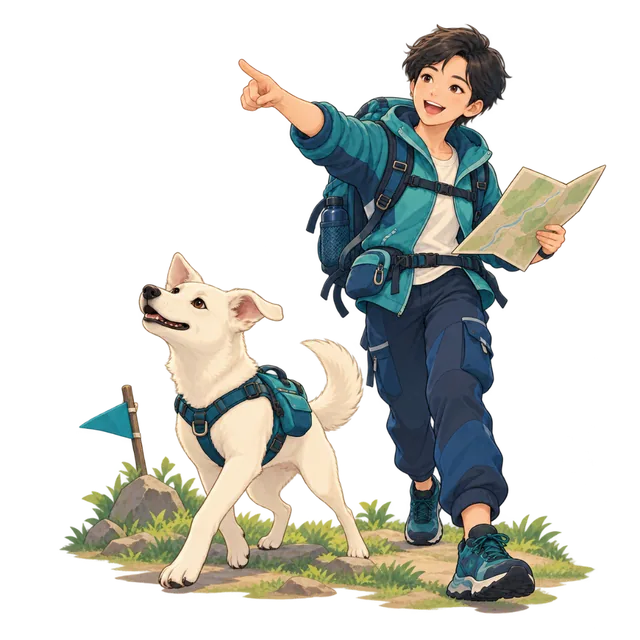
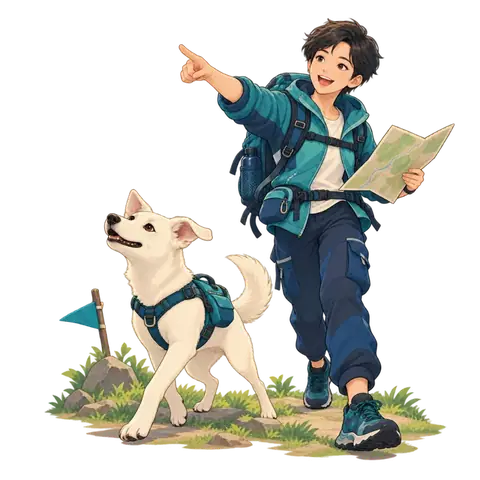
결과 캐릭터 이미지 480px로 축소, 우선 로딩

diff --git a/index.html b/index.html
@@ -11,8 +11,8 @@
   <meta property="og:type" content="website">
   <link rel="preconnect" href="https://cdn.jsdelivr.net" crossorigin>
   <link rel="stylesheet" href="https://cdn.jsdelivr.net/gh/orioncactus/pretendard@v1.3.9/dist/web/variable/pretendardvariable-dynamic-subset.min.css">
-  <link rel="stylesheet" href="./style.css?v=5">
-  <script src="./script.js?v=5" defer></script>
+  <link rel="stylesheet" href="./style.css?v=6">
+  <script src="./script.js?v=6" defer></script>
 </head>
 <body>
   <header class="topbar">
@@ -67,7 +67,7 @@
     <section class="screen screen--result" data-screen="result" hidden>
       <div class="type-card">
         <p class="type-card__eyebrow">당신은</p>
-        <img class="type-card__image" alt="" width="640" height="640" decoding="async">
+        <img class="type-card__image" alt="" width="480" height="480" decoding="async" fetchpriority="high">
         <div class="type-card__badge"></div>
         <h2 class="type-card__name"></h2>
         <p class="type-card__tagline"></p>

diff --git a/script.js b/script.js
@@ -12,7 +12,7 @@ const CONFIG = {
   // 위액트 원본 사진을 800px(상세)·240px(결과 카드) WebP로 줄여 함께 배포함
   photo: (file) => `./images/animals/${file.replace(/\.\w+$/, '')}.webp`,
   thumb: (file) => `./images/animals/thumb/${file.replace(/\.\w+$/, '')}.webp`,
-  typeImage: (gender, code) => `./images/types/${gender}/${code}.webp`,
+  typeImage: (gender, code) => `./images/types/${gender}/${code}.webp?v=2`,
   fallbackGender: 'male',
   utm: 'utm_source=adoption_party&utm_medium=friend_match',
   // 구글 앱스 스크립트 웹앱 주소를 넣으면 응답·클릭 기록이 전송됨
@@ -1564,6 +1564,7 @@ function preloadImages(urls) {
   urls.forEach((url) => {
     const image = new Image();
     image.decoding = 'async';
+    image.fetchPriority = 'high';
     image.src = url;
   });
 }
